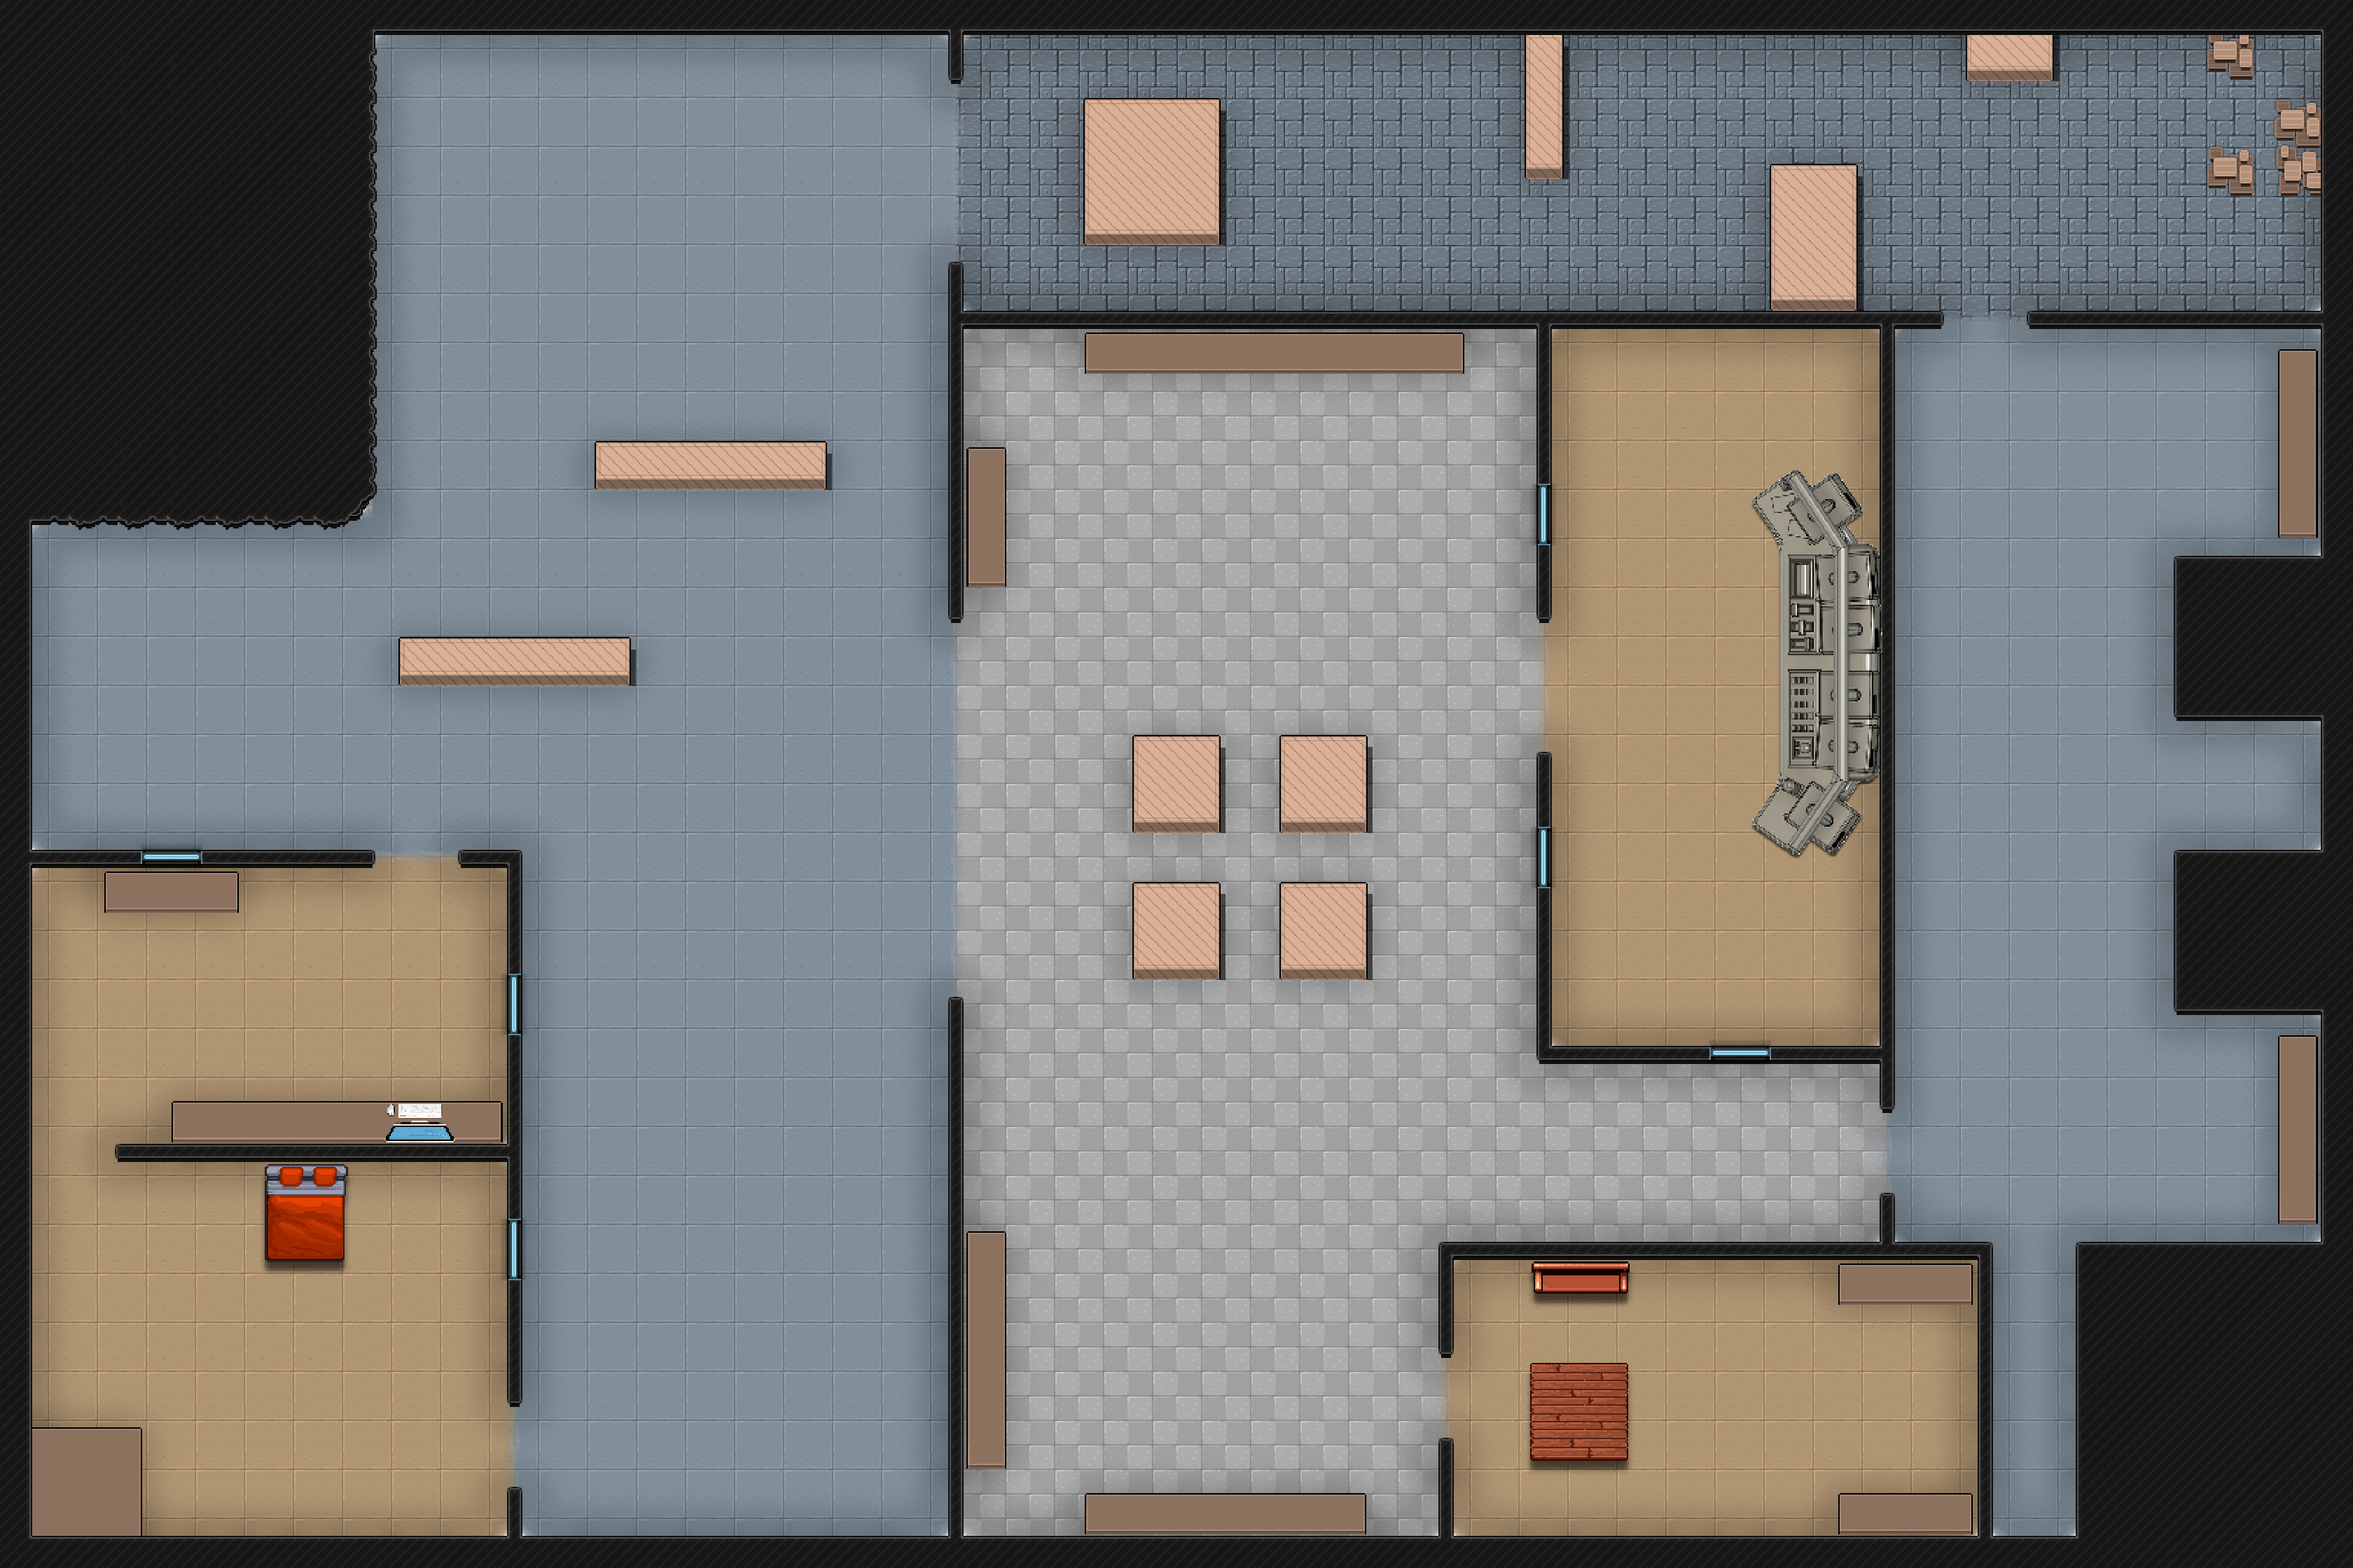
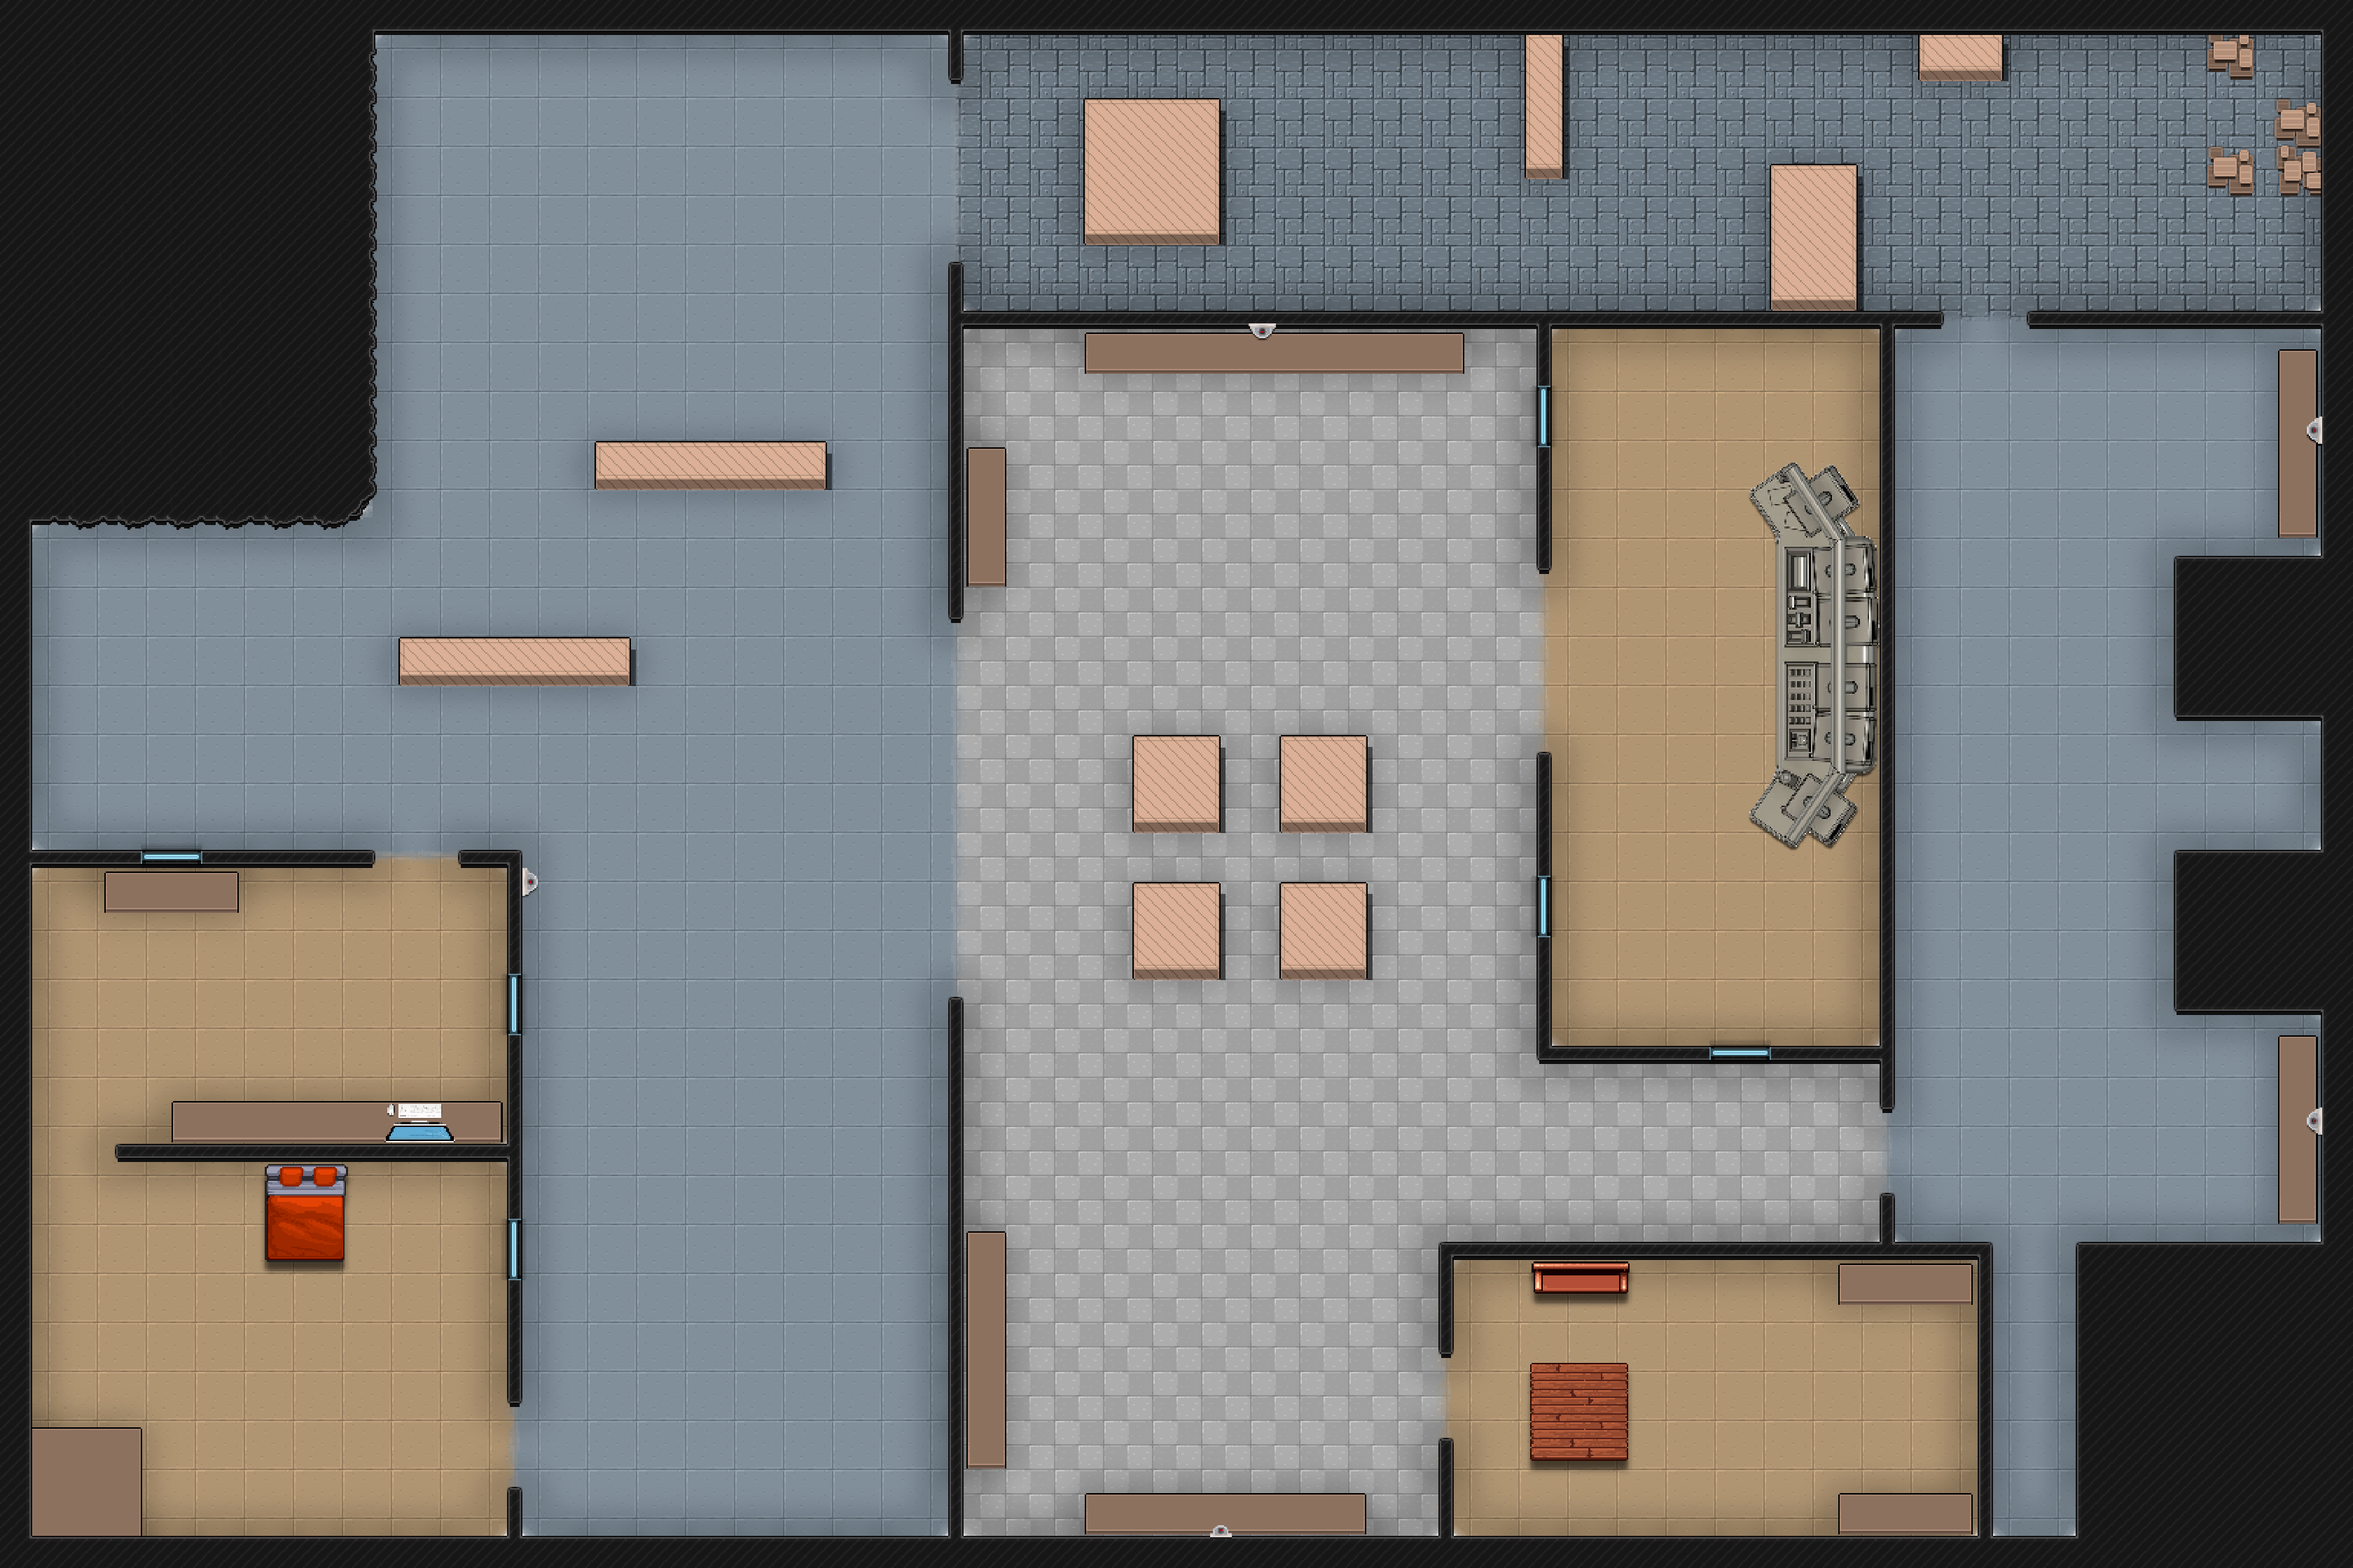
Some fix

diff --git a/src/game/playground/camera/systems.rs b/src/game/playground/camera/systems.rs
@@ -1,12 +1,7 @@
 use bevy::audio::{PlaybackMode, VolumeLevel};
 use bevy::prelude::*;
-use bevy::sprite::MaterialMesh2dBundle;
-use bevy::window::PrimaryWindow;
 use bevy::audio::Volume; 
 
-
-use crate::get_scale_reference;
-use crate::components::Layer;
 use crate::game::components::Level;
 use crate::game::bundle::camera::get_camera_bundle;
 use crate::game::playground::components::{WorldPosition, Orientation};
@@ -23,25 +18,13 @@ pub const ROTATION_CORRECTION: f32 = PI/2.0;
 
 pub fn spawn_camera(
     mut commands: Commands,
-    mut meshes: ResMut<Assets<Mesh>>,
-    mut materials: ResMut<Assets<ColorMaterial>>,
     level: Res<Level>,
-    window_q: Query<&Window, With<PrimaryWindow>>, 
     asset_server: Res<AssetServer>, 
 ) {
-    let window = window_q.get_single().unwrap(); 
-    let scale_reference = get_scale_reference(&window.width(), &window.height()); 
 
     if let Some(cameras) = get_camera_bundle(&level) {
         for bundle in cameras {
             commands.spawn((
-                MaterialMesh2dBundle {
-                    mesh: meshes.add(Mesh::from(shape::RegularPolygon::new(bundle.fov_length.0, 3))).into(),
-                    transform: Transform::from_xyz(0.0, 0.0, Layer::Interactable.into())
-                            .with_scale(Vec3::new(scale_reference, scale_reference, 1.0)),
-                    material: materials.add(ColorMaterial::from(Color::rgba(0.0, 1.0, 0.0, 0.6))), 
-                    ..default()
-                },
                 bundle, 
                 Camera,
                 AudioBundle {

diff --git a/src/score_menu/systems.rs b/src/score_menu/systems.rs
@@ -84,7 +84,8 @@ pub fn spawn_score_menu(
 ) {
     let elapsed_time = format!(" {}:{}:{}", time.0.elapsed().as_secs()/3600, time.0.elapsed().as_secs()/60, (time.0.elapsed().as_secs()%3600)%60);
 
-    let mut total_score = "You lost !".to_string(); 
+    let mut total_score = "You lost !".to_string();
+
     let mut value = 0; 
     for ev in score_event.iter() {
         total_score = ev.comment.clone(); 
@@ -358,7 +359,7 @@ pub fn score_animation(
     let mut time_score = 0; 
 
     if let Ok(elapsed_time) = elapsed_time_q.get_single() {
-        time_score = 100000*(3600-elapsed_time.0) /3600;
+        time_score = 50000*(3600-elapsed_time.0) /3600;
     }
     
 
@@ -375,8 +376,8 @@ pub fn score_animation(
 
     let scores = vec![
         format!("Gems collected: + {} x 25 000", count.0), 
-        format!("Guards non alerted: + {} x 25 000", nb_guards), 
-        format!("Target cleared: + 10 000"),
+        format!("Guards non alerted: + {} x 50 000", nb_guards), 
+        format!("Target cleared: + 100 000"),
         format!("Time bonus: + {}", time_score),
         format!("Stealth: {}", stealth_message),
     ]; 

diff --git a/src/game/bundle/camera.rs b/src/game/bundle/camera.rs
@@ -1,7 +1,7 @@
 use bevy::prelude::*;
 use std::f32::consts::PI;
 use crate::game::{playground::{
-    camera::{components::{CameraBundle, CameraPosition, Rotate, CameraPattern, FOVLength}, systems::ROTATION_CORRECTION}, 
+    camera::{components::{CameraBundle, CameraPosition, CameraPattern, FOVLength}, systems::ROTATION_CORRECTION}, 
     components::{WorldPosition, Orientation}}, components::Level};
 
 
@@ -48,7 +48,7 @@ pub fn get_camera_bundle(level: &Level) -> Option<Vec<CameraBundle>> {
                         position: CameraPosition {x: 745.0, y: 970.0},
                         fov_position: WorldPosition {x:745.0, y: 970.0},
                         orientation: Orientation(Quat::from_rotation_z(0.0)*Quat::from_rotation_z(ROTATION_CORRECTION)),
-                        pattern: CameraPattern::Arc((PI/4.0, 0.0, Rotate::Trigo)),
+                        pattern: CameraPattern::Static,
                         fov_length: FOVLength(200.0),
                     },
                 ]

diff --git a/src/game/systems.rs b/src/game/systems.rs
@@ -57,11 +57,13 @@ pub fn handle_level_complete(
 
         let gems_score = count.0 as u64 * 25000;
         let nb_guards = guard_q.iter().len() as u64; 
-        let guard_score = nb_guards * 25000; 
+        let guard_score = nb_guards * 50000; 
 
         let target_score: u64 = 100000; 
 
-        let time_score = 100000*((3600-time.0.elapsed().as_secs())/3600);
+
+        let elapsed_time = time.0.elapsed().as_secs();
+        let time_score = 50000*(3600-elapsed_time) /3600;
 
         let stealth_coefficient = match stealth {
             Stealth::None => {

diff --git a/src/game/playground/target/systems.rs b/src/game/playground/target/systems.rs
@@ -40,7 +40,7 @@ pub fn spawn_target (
                 source: asset_server.load("sounds/hacking.ogg"),
                 settings: PlaybackSettings { 
                     mode: PlaybackMode::Loop, 
-                    volume: Volume::Relative(VolumeLevel::new(1.0)), 
+                    volume: Volume::Relative(VolumeLevel::new(0.5)), 
                     speed: 1.0, paused: true }
             },
         ));
